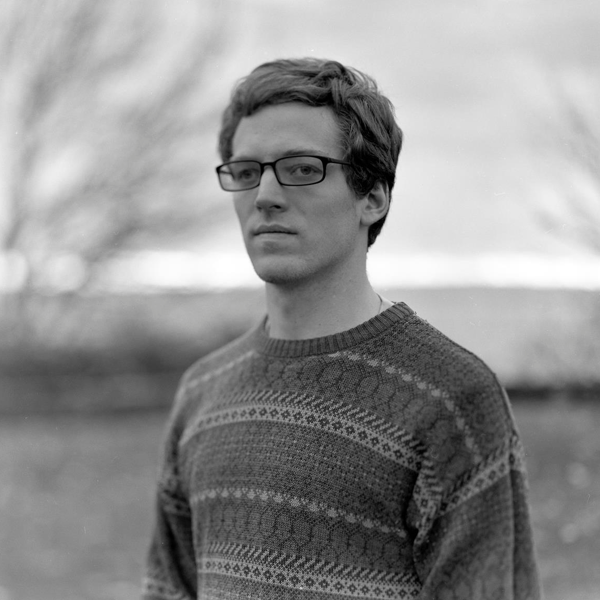
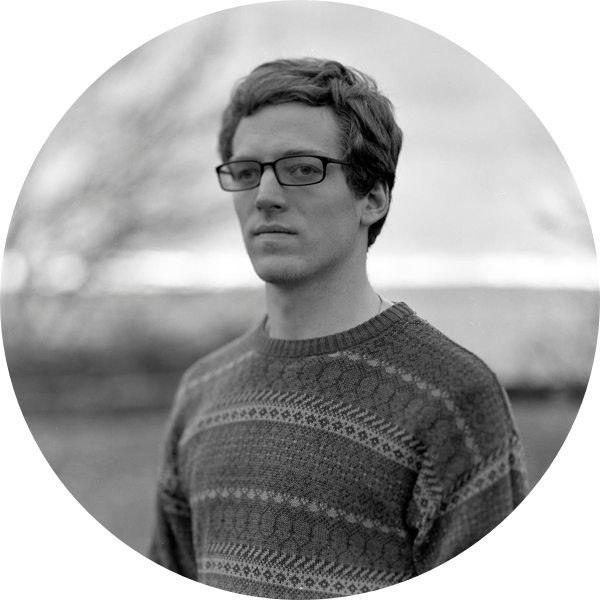
ok

diff --git a/styles.css b/styles.css
@@ -1,1 +1,1 @@
-html,body,div,span,applet,object,iframe,h1,h2,h3,h4,h5,h6,p,blockquote,pre,a,abbr,acronym,address,big,cite,code,del,dfn,em,img,ins,kbd,q,s,samp,small,strike,strong,sub,sup,tt,var,b,u,i,center,dl,dt,dd,ol,ul,li,fieldset,form,label,legend,table,caption,tbody,tfoot,thead,tr,th,td,article,aside,canvas,details,embed,figure,figcaption,footer,header,hgroup,menu,nav,output,ruby,section,summary,time,mark,audio,video{margin:0;padding:0;border:0;font-size:100%;font:inherit;vertical-align:baseline}article,aside,details,figcaption,figure,footer,header,hgroup,menu,nav,section{display:block}body{line-height:1}ol,ul{list-style:none}blockquote,q{quotes:none}blockquote:before,blockquote:after,q:before,q:after{content:'';content:none}table{border-collapse:collapse;border-spacing:0}body{font-family:'Muli'}.name{padding:15px 20px;font-weight:900;margin:0;font-size:1.8em;float:left;color:#000;text-decoration:none;position:absolute;z-index:9999;top:20px;left:20px}@media only screen and (min-width:768px){.name{position:fixed;top:40px;left:60px}}#mnu-btn{background:yellow;padding:20px 20px 17px 20px;cursor:pointer;font-size:1.2em;font-weight:900;position:absolute;top:20px;right:20px;z-index:9999}@media only screen and (min-width:768px){#mnu-btn{position:fixed;top:40px;right:60px}}#mnu-btn:hover{background:pink}.open{overflow:hidden}@media only screen and (min-width:768px){.open .name{color:#fff;transition:color .5s}}.open #mnu-btn{background:pink}.open #main{filter:invert(100%);transition:filter .5s}.c-logo--scrolled.open .name{color:#fff}#work{position:fixed;top:0;left:0;right:0;bottom:0;z-index:999}.list{position:absolute;top:0;left:0;right:0;bottom:0;background:#ffffff;overflow:scroll;-webkit-box-shadow:10px 10px 53px 5px rgba(0,0,0,0.21);-moz-box-shadow:10px 10px 53px 5px rgba(0,0,0,0.21);box-shadow:10px 10px 53px 5px rgba(0,0,0,0.21);padding:0 20px 0 20px}@media only screen and (min-width:768px){.list{left:20%;padding:0 100px 0 110px}}#buff{cursor:pointer}@media only screen and (min-width:768px){#buff{position:absolute;top:0;left:0;right:80%;bottom:0}}.blog-list{margin-top:65px}.blog-list .column{float:left;width:100%}@media only screen and (min-width:768px){.blog-list .column{width:50%}}img{max-width:100%;height:auto}.blog-list .blog-item{text-align:left;float:left;margin-bottom:60px}@media only screen and (min-width:768px){.blog-list .blog-item{width:calc(100% - 100px);margin-bottom:120px}}.blog-list a{float:left}.blog-list a h2::after{content:"\2192";margin-left:20px;padding-top:5px;font-weight:400}.blog-list a:hover h2{color:#dd8c9a}.blog-list .blog-item .project-image{position:relative;float:left;width:100%}.blog-list .blog-item img{position:relative;float:left;width:100%}.blog-list .blog-item .overlay{opacity:0;position:absolute;top:0;left:0;right:0;bottom:0;background:#000;-webkit-transition:opacity .2s;transition:opacity .2s}.blog-list a:hover .overlay{opacity:.375}.page-title{font-size:2.8em;margin-top:170px;padding-bottom:55px;font-weight:900;border-bottom:3px solid #000;width:calc(100% - 100px)}.blog-list .blog-item a{text-decoration:none}.blog-list .blog-item h2{color:#000;font-size:1.8em;margin-top:40px;display:inline-block}.blog-list .blog-item h3{color:#ccc;margin-top:10px}main{background:#fff}h1,h2,h3{font-weight:900}#project p,#project li{font-size:18px;line-height:24px}#project .hero{background-position:top center;background-size:cover;width:100%;height:642px;padding-top:250px}@media only screen and (min-width:768px){#project .hero{display:flex;justify-content:center}}@media only screen and (min-width:768px){#project .hero span{height:1px;width:150px;background:#000;margin:40px}}#project .hero h1{margin:20px 0 0 0;font-size:1.8em}#project .hero h2{font-size:3.6em;max-width:600px;line-height:1.4em}#project .overview{background:#000;margin:-190px auto 40px auto;max-width:1200px;color:#fff;padding:60px}@media only screen and (min-width:768px){#project .overview p{width:60%;float:right;margin:0}}#project .overview h2{font-size:1.8em;color:#a2b9d1}@media only screen and (min-width:768px){#project .overview h2{width:calc(40% - 35px);text-align:right;float:left;margin-top:20px;padding-right:35px}}#project .overview div{display:inline-block;width:100%}#project .overview ul{line-height:24px}#project .overview ul:last-child{border-right:solid 1px transparent}#project .overview ul h3{font-weight:900;font-size:16px}@media only screen and (min-width:768px){#project .overview ul{border-right:solid 1px #fff;margin-right:40px;min-height:190px;float:left;width:25%;margin-top:60px}}#project .center{display:flex;flex-direction:column;flex:1;align-items:center}#project .container{max-width:1200px;margin:60px auto 100px auto;width:100%}#project .container-split{max-width:1600px;margin:60px auto 100px auto;width:100%}#project .container-split .content{float:left;width:20%;margin-top:200px;margin-left:10%}#project .container-split .content p{width:100%}#project .container-split .split-imgs{float:right;width:60%;text-align:right}#project .container-split .split-imgs img{max-width:680px;-webkit-box-shadow:10px 10px 53px 5px rgba(0,0,0,0.21);-moz-box-shadow:10px 10px 53px 5px rgba(0,0,0,0.21);box-shadow:10px 10px 53px 5px rgba(0,0,0,0.21);position:relative}#project .container-split .split-imgs img:last-child{margin-right:200px;z-index:0;margin-top:-1200px}#project .splimgs{padding-bottom:50px}#project .splimgs img{max-width:50%;-webkit-box-shadow:10px 10px 53px 5px rgba(0,0,0,0.21);-moz-box-shadow:10px 10px 53px 5px rgba(0,0,0,0.21);box-shadow:10px 10px 53px 5px rgba(0,0,0,0.21);position:relative;margin-left:50px;z-index:1}#project .splimgs img:last-child{float:left;z-index:0;margin-left:-50px;margin-top:150px}#project .none{margin:0 auto 100px auto}#project .line{border-top:solid 1px #000;padding-top:100px}#project .extra{margin:155px auto 130px auto}#project .content{display:table-cell;justify-self:flex-start}#project .content p{width:60%}#project .content .full{width:100%}#project .content h2{font-size:1.8em;margin-bottom:20px}#project .content h3{margin-bottom:16px}#project .steps{border-top:solid 3px #000;border-bottom:solid 3px #000;margin:0;margin-bottom:5px;padding:60px 0}@media only screen and (min-width:768px){#project .steps{display:flex;justify-content:left}}#project .steps li{margin-right:50px;padding-left:10px;flex-grow:1}#project .steps li h3{font-size:1.8em;line-height:1.2}#project .img-container{max-width:1600px;margin:0 auto;width:90%}#project .img-container img{float:left;width:100%}.space{margin:100px 0 10px 0}.li p{margin-top:15px}.ikka .overview h2{color:#9f8a94 !important}.ikka .hero{background-image:url(/img/ikka/ikka_hero_image.png)}.ikka footer{background:#5a404d}.smartsolve .overview h2{color:#d558af !important}.smartsolve .name{color:#fff}.smartsolve .hero{background-image:url(../img/smartsolve/default.png);background-position:left top!important;color:#fff}@media only screen and (min-width:768px){.smartsolve .hero span{background:#fff !important}}.smartsolve footer{background:#7e1261}.craft footer{background:#a35524}.craft .name{color:#fff}.craft .hero{background-image:url(/img/craft/Craft3_hero_image.png);color:#fff}@media only screen and (min-width:768px){.craft .hero span{background:#fff !important}}.craft .steps li:first-child{width:25%}.craft .overview h2{color:#fd904e !important}.apollo .overview h2{color:#4aa7df !important}.apollo footer{background:#204fb6}.apollo .name{color:#fff}.apollo .hero{background-image:url(/img/apollo/apollo-h.png);color:#fff}@media only screen and (min-width:768px){.apollo .hero span{background:#fff !important}}.apollo .img-ui{width:1600px;margin-top:60px}.apollo .img-ui img{-webkit-box-shadow:10px 10px 53px 5px rgba(0,0,0,0.21);-moz-box-shadow:10px 10px 53px 5px rgba(0,0,0,0.21);box-shadow:10px 10px 53px 5px rgba(0,0,0,0.21);margin:0 5%;z-index:4;position:relative;float:right;width:1100px}.apollo .img-ui img:last-child{float:left;margin-top:-200px;z-index:2;position:relative;width:1100px}.c-logo--scrolled .name{color:#000;transition:color .5s}.glide,.glide2,.glide3,.glide4{position:relative;width:100%;box-sizing:border-box;margin-bottom:40px}.glide *{box-sizing:inherit}.glide__track{overflow:hidden}.glide__slides{position:relative;width:100%;list-style:none;backface-visibility:hidden;transform-style:preserve-3d;touch-action:pan-Y;overflow:hidden;padding:0;white-space:nowrap;display:flex;flex-wrap:nowrap;will-change:transform}.glide__slides--dragging{user-select:none}.glide__slide{width:100%;height:100%;flex-shrink:0;white-space:normal;user-select:none;-webkit-touch-callout:none;-webkit-tap-highlight-color:transparent}.glide__slide a{user-select:none;-webkit-user-drag:none;-moz-user-select:none;-ms-user-select:none}.glide__arrows{-webkit-touch-callout:none;user-select:none}.glide__bullets{-webkit-touch-callout:none;user-select:none}.glide--rtl{direction:rtl}.glide__arrow--left{left:calc(10% - 50px);position:absolute;background:#000;width:50px;height:50px;top:calc(50% - 25px);border:none}button:focus{outline:0}button{cursor:pointer}.glide__arrow--right{right:calc(10% - 50px);position:absolute;background:#000;width:50px;height:50px;top:calc(50% - 25px);border:none}.glide__arrow--right::after,.glide__arrow--left::after{content:" ";position:absolute;width:10px;height:10px;top:50%;left:54%;border-right:2px solid #fff;border-bottom:2px solid #fff;transform:translate(-50%, -50%) rotate(135deg)}.glide__arrow--right{transform:rotate(180deg)}.carousel-control.right::after{left:47%;transform:translate(-50%, -50%) rotate(-45deg)}.glide__bullet{height:10px;width:10px;border-radius:5px;border:solid 1px #fff;background:#fff;padding:0;margin:22px 5px 0 5px}.glide__bullet--active{background:#000;border:solid 1px #000}.glide__track{width:80%;-webkit-box-shadow:10px 10px 53px 5px rgba(0,0,0,0.21);-moz-box-shadow:10px 10px 53px 5px rgba(0,0,0,0.21);box-shadow:10px 10px 53px 5px rgba(0,0,0,0.21);margin:0 auto;padding:0 -10%}.glide__track img{float:left;width:80%}.glide__bullets{text-align:center;display:block}.insights{margin-top:-40px;margin-bottom:35px;background:#F8F9FB;padding:80px 80px 60px 60px;display:inline-block}.insights .contain{max-width:1200px;margin:0 auto 0 auto;width:100%}.insights ul{padding-top:25px;width:100%;display:inline-block}.insights ul li{list-style:none;width:calc(50% - 60px);float:left;margin-left:60px;margin-bottom:25px}.insights ul li h3{font-weight:900;float:left;width:40px}.insights ul li span{float:left;width:calc(100% - 40px)}footer{float:left;width:100%;margin-top:100px;color:#fff;padding-top:60px}footer span{height:1px;width:100%;background:#fff;display:inline-block;margin-top:50px}footer h2{font-size:1.8em;margin-bottom:15px}footer .c{max-width:1200px;margin:60px auto 60px auto;width:100%}footer ul li{width:100%;border-bottom:solid 1px #fff;padding:21px 0 21px 0}footer a{font-size:1.8em;font-weight:900;color:#fff;text-decoration:none;padding:30px 0;display:inline-block}footer a::after{content:"\2192";margin-left:25px;padding-top:5px;font-weight:400}#about{position:absolute;top:0;left:0;bottom:0;right:0;background:#fff;z-index:99;font-size:18px;line-height:24px}#about .center{display:flex;align-items:center;justify-content:center;min-height:80vh}#about .center .wrap{max-width:1100px;display:flex;align-items:center;justify-content:center}#about .center .circle{width:450px;height:450px;float:left;border-radius:225px;overflow:hidden;text-align:center}#about .center .circle img{width:100%}#about .center .words{float:left;max-width:550px;margin-left:50px}#about .center .words h2{font-size:1.8em}#about .center .words h2,#about .center .words p{margin-bottom:25px}#about .contact{width:100%;border-top:solid 3px #000;height:20vh;display:flex;align-items:center}#about .contact a{margin-left:120px;font-weight:900;font-size:1.8em;text-decoration:none;color:#000}#about .contact a::after{content:"\2192";margin-left:25px;padding-top:5px;font-weight:400}#about .contact a:hover{color:#dd8c9a}#about .close{position:absolute;right:60px;bottom:60px;height:44px;width:44px;cursor:pointer;border-radius:44px;border:solid 2px #000;font-family:Hoefler Text,Baskerville Old Face,Garamond,Times New Roman,serif;line-height:49px;text-align:center;font-style:italic;font-size:22px;background:#000;color:#fff}#about .close:hover{background:transparent;color:#000}.open #about{background:#000}#about-btn{position:absolute;right:60px;bottom:60px;height:44px;width:44px;cursor:pointer;border-radius:44px;border:solid 2px #000;font-family:Hoefler Text,Baskerville Old Face,Garamond,Times New Roman,serif;line-height:49px;text-align:center;font-style:italic;font-size:28px}#about-btn:hover{background:#000;color:#fff}#about-btn svg{width:100%;margin:0;height:44px}.etr{margin:35px auto 35px auto!important}#loader{font-family:Hoefler Text,Baskerville Old Face,Garamond,Times New Roman,serif;font-style:italic;font-size:1em;display:flex;align-items:center;justify-content:center;height:100vh}.animate-bottom{position:relative;-webkit-animation-name:animatebottom;-webkit-animation-duration:2s;animation-name:animatebottom;animation-duration:2s}@-webkit-keyframes animatebottom{from{opacity:0}to{opacity:1}}@keyframes animatebottom{from{opacity:0}to{opacity:1}}
+html,body,div,span,applet,object,iframe,h1,h2,h3,h4,h5,h6,p,blockquote,pre,a,abbr,acronym,address,big,cite,code,del,dfn,em,img,ins,kbd,q,s,samp,small,strike,strong,sub,sup,tt,var,b,u,i,center,dl,dt,dd,ol,ul,li,fieldset,form,label,legend,table,caption,tbody,tfoot,thead,tr,th,td,article,aside,canvas,details,embed,figure,figcaption,footer,header,hgroup,menu,nav,output,ruby,section,summary,time,mark,audio,video{margin:0;padding:0;border:0;font-size:100%;font:inherit;vertical-align:baseline}article,aside,details,figcaption,figure,footer,header,hgroup,menu,nav,section{display:block}body{line-height:1}ol,ul{list-style:none}blockquote,q{quotes:none}blockquote:before,blockquote:after,q:before,q:after{content:'';content:none}table{border-collapse:collapse;border-spacing:0}body{font-family:'Muli'}.name{padding:15px 20px;font-weight:900;margin:0;font-size:1.8em;float:left;color:#000;text-decoration:none;position:absolute;z-index:9999;top:20px;left:20px}@media only screen and (min-width:768px){.name{position:fixed;top:40px;left:60px}}#mnu-btn{background:yellow;padding:20px 20px 17px 20px;cursor:pointer;font-size:1.2em;font-weight:900;position:absolute;top:20px;right:20px;z-index:9999}@media only screen and (min-width:768px){#mnu-btn{position:fixed;top:40px;right:60px}}#mnu-btn:hover{background:pink}.open{overflow:hidden}@media only screen and (min-width:768px){.open .name{color:#fff;transition:color .5s}}.open #mnu-btn{background:pink}.open #main{filter:invert(100%);transition:filter .5s}.c-logo--scrolled.open .name{color:#fff}#work{position:fixed;top:0;left:0;right:0;bottom:0;z-index:999}.list{position:absolute;top:0;left:0;right:0;bottom:0;background:#ffffff;overflow:scroll;-webkit-box-shadow:10px 10px 53px 5px rgba(0,0,0,0.21);-moz-box-shadow:10px 10px 53px 5px rgba(0,0,0,0.21);box-shadow:10px 10px 53px 5px rgba(0,0,0,0.21);padding:0 20px 0 20px}@media only screen and (min-width:768px){.list{left:20%;padding:0 100px 0 110px}}#buff{cursor:pointer}@media only screen and (min-width:768px){#buff{position:absolute;top:0;left:0;right:80%;bottom:0}}.blog-list{margin-top:65px}.blog-list .column{float:left;width:100%}@media only screen and (min-width:768px){.blog-list .column{width:50%}}img{max-width:100%;height:auto}.blog-list .blog-item{text-align:left;float:left;margin-bottom:60px}@media only screen and (min-width:768px){.blog-list .blog-item{width:calc(100% - 100px);margin-bottom:120px}}.blog-list a{float:left}.blog-list a h2::after{content:"\2192";margin-left:20px;padding-top:5px;font-weight:400}.blog-list a:hover h2{color:#dd8c9a}.blog-list .blog-item .project-image{position:relative;float:left;width:100%}.blog-list .blog-item img{position:relative;float:left;width:100%}.blog-list .blog-item .overlay{opacity:0;position:absolute;top:0;left:0;right:0;bottom:0;background:#000;-webkit-transition:opacity .2s;transition:opacity .2s}.blog-list a:hover .overlay{opacity:.375}.page-title{font-size:2.8em;margin-top:170px;padding-bottom:55px;font-weight:900;border-bottom:3px solid #000;width:calc(100% - 100px)}.blog-list .blog-item a{text-decoration:none}.blog-list .blog-item h2{color:#000;font-size:1.8em;margin-top:40px;display:inline-block}.blog-list .blog-item h3{color:#ccc;margin-top:10px}main{background:#fff}h1,h2,h3{font-weight:900}#project p,#project li{font-size:18px;line-height:24px}#project .hero{background-position:top center;background-size:cover;height:642px;padding:180px 10%}@media only screen and (min-width:768px){#project .hero{display:flex;justify-content:center;padding:250px 0 0 0;width:100%}}@media only screen and (min-width:768px){#project .hero span{height:1px;width:150px;background:#000;margin:40px}}#project .hero h1{margin:20px 0 0 0;font-size:1.8em}#project .hero h2{font-size:2.6em;max-width:600px;line-height:1.4em;margin-top:50px}@media only screen and (min-width:768px){#project .hero h2{font-size:3.6em;margin:0}}#project .overview{background:#000;margin:-190px auto 40px auto;max-width:1200px;color:#fff;padding:60px}@media only screen and (min-width:768px){#project .overview p{width:60%;float:right;margin:0}}#project .overview h2{font-size:1.8em;color:#a2b9d1;margin-bottom:20px}@media only screen and (min-width:768px){#project .overview h2{width:calc(40% - 35px);margin-bottom:0;text-align:right;float:left;margin-top:20px;padding-right:35px}}#project .overview div{display:inline-block;width:100%}#project .overview ul{line-height:24px;margin-top:20px}@media only screen and (min-width:768px){#project .overview ul{margin-top:0}}#project .overview ul:last-child{border-right:solid 1px transparent}#project .overview ul h3{font-weight:900;font-size:16px}@media only screen and (min-width:768px){#project .overview ul{border-right:solid 1px #fff;margin-right:40px;min-height:190px;float:left;width:25%;margin-top:60px}}#project .center{display:flex;flex-direction:column;flex:1;align-items:center}#project .container{margin:60px 10% 100px 10%}@media only screen and (min-width:768px){#project .container{max-width:1200px;margin:60px auto 100px auto;width:100%}}#project .container-split{max-width:1600px;margin:60px auto 100px auto;width:100%}#project .container-split .content{float:left;width:20%;margin-top:200px;margin-left:10%}#project .container-split .content p{width:100%}#project .container-split .split-imgs{float:right;width:60%;text-align:right}#project .container-split .split-imgs img{max-width:680px;-webkit-box-shadow:10px 10px 53px 5px rgba(0,0,0,0.21);-moz-box-shadow:10px 10px 53px 5px rgba(0,0,0,0.21);box-shadow:10px 10px 53px 5px rgba(0,0,0,0.21);position:relative}#project .container-split .split-imgs img:last-child{margin-right:200px;z-index:0;margin-top:-1200px}#project .splimgs{padding-bottom:50px}#project .splimgs img{max-width:50%;-webkit-box-shadow:10px 10px 53px 5px rgba(0,0,0,0.21);-moz-box-shadow:10px 10px 53px 5px rgba(0,0,0,0.21);box-shadow:10px 10px 53px 5px rgba(0,0,0,0.21);position:relative;margin-left:50px;z-index:1}#project .splimgs img:last-child{float:left;z-index:0;margin-left:-50px;margin-top:150px}#project .none{margin:0 10% 100px 10%}@media only screen and (min-width:768px){#project .none{margin:0 auto 100px auto}}#project .line{border-top:solid 1px #000;padding-top:100px}#project .extra{margin:155px 10% 130px 10%}@media only screen and (min-width:768px){#project .extra{margin:155px auto 130px auto}}#project .content{display:table-cell;justify-self:flex-start}@media only screen and (min-width:768px){#project .content p{width:60%}}#project .content .full{width:100%}#project .content h2{font-size:1.8em;margin-bottom:20px}#project .content h3{margin-bottom:16px}#project .steps{border-top:solid 3px #000;border-bottom:solid 3px #000;margin:0;margin-bottom:5px;padding:60px 0}@media only screen and (min-width:768px){#project .steps{display:flex;justify-content:left}}#project .steps li{margin:20px 10%;flex-grow:1;margin-bottom:20px}@media only screen and (min-width:768px){#project .steps li{margin:0 50px 0 0;padding-left:10px}}#project .steps li h3{font-size:1.8em;line-height:1.2}#project .img-container{max-width:1600px;margin:0 auto;width:90%}#project .img-container img{float:left;width:100%}.space{margin:100px 0 10px 0}.li p{margin-top:15px}.ikka .overview h2{color:#9f8a94 !important}.ikka .hero{background-image:url(/img/ikka/ikka_hero_image.png)}.ikka footer{background:#5a404d}.smartsolve .overview h2{color:#d558af !important}.smartsolve .name{color:#fff}.smartsolve .hero{background-image:url(../img/smartsolve/default.png);background-position:left top!important;color:#fff}@media only screen and (min-width:768px){.smartsolve .hero span{background:#fff !important}}.smartsolve footer{background:#7e1261}.craft footer{background:#a35524}.craft .name{color:#fff}.craft .hero{background-image:url(/img/craft/Craft3_hero_image.png);color:#fff}@media only screen and (min-width:768px){.craft .hero span{background:#fff !important}}.craft .steps li:first-child{width:25%}.craft .overview h2{color:#fd904e !important}.apollo .overview h2{color:#4aa7df !important}.apollo footer{background:#204fb6}.apollo .name{color:#fff}.apollo .hero{background-image:url(/img/apollo/apollo-h.png);color:#fff}@media only screen and (min-width:768px){.apollo .hero span{background:#fff !important}}.apollo .img-ui{margin-top:60px}@media only screen and (min-width:768px){.apollo .img-ui{width:1600px}}.apollo .img-ui img{-webkit-box-shadow:10px 10px 53px 5px rgba(0,0,0,0.21);-moz-box-shadow:10px 10px 53px 5px rgba(0,0,0,0.21);box-shadow:10px 10px 53px 5px rgba(0,0,0,0.21);margin:0 10%;z-index:4;position:relative;max-width:80%}@media only screen and (min-width:768px){.apollo .img-ui img{width:1100px;margin:0 5%}}@media only screen and (min-width:768px){.apollo .img-ui img:last-child{float:left;margin-top:-200px;z-index:2;position:relative;width:1100px}}.c-logo--scrolled .name{color:#000;transition:color .5s}.glide,.glide2,.glide3,.glide4{position:relative;width:100%;box-sizing:border-box;margin-bottom:40px}.glide *{box-sizing:inherit}.glide__track{overflow:hidden}.glide__slides{position:relative;width:100%;list-style:none;backface-visibility:hidden;transform-style:preserve-3d;touch-action:pan-Y;overflow:hidden;padding:0;white-space:nowrap;display:flex;flex-wrap:nowrap;will-change:transform}.glide__slides--dragging{user-select:none}.glide__slide{width:100%;height:100%;flex-shrink:0;white-space:normal;user-select:none;-webkit-touch-callout:none;-webkit-tap-highlight-color:transparent}.glide__slide a{user-select:none;-webkit-user-drag:none;-moz-user-select:none;-ms-user-select:none}.glide__arrows{-webkit-touch-callout:none;user-select:none;display:none}@media only screen and (min-width:768px){.glide__arrows{display:block}}.glide__bullets{-webkit-touch-callout:none;user-select:none}.glide--rtl{direction:rtl}.glide__arrow--left{left:calc(10% - 50px);position:absolute;background:#000;width:50px;height:50px;top:calc(50% - 25px);border:none}button:focus{outline:0}button{cursor:pointer}.glide__arrow--right{right:calc(10% - 50px);position:absolute;background:#000;width:50px;height:50px;top:calc(50% - 25px);border:none}.glide__arrow--right::after,.glide__arrow--left::after{content:" ";position:absolute;width:10px;height:10px;top:50%;left:54%;border-right:2px solid #fff;border-bottom:2px solid #fff;transform:translate(-50%, -50%) rotate(135deg)}.glide__arrow--right{transform:rotate(180deg)}.carousel-control.right::after{left:47%;transform:translate(-50%, -50%) rotate(-45deg)}.glide__bullet{height:10px;width:10px;border-radius:5px;border:solid 1px #fff;background:#fff;padding:0;margin:22px 5px 0 5px}.glide__bullet--active{background:#000;border:solid 1px #000}.glide__track{width:80%;-webkit-box-shadow:10px 10px 53px 5px rgba(0,0,0,0.21);-moz-box-shadow:10px 10px 53px 5px rgba(0,0,0,0.21);box-shadow:10px 10px 53px 5px rgba(0,0,0,0.21);margin:0 auto;padding:0 -10%}.glide__track img{float:left;width:80%}.glide__bullets{text-align:center;display:block}.insights{margin-top:-40px;margin-bottom:35px;background:#F8F9FB;padding:80px 80px 60px 60px;display:inline-block}.insights .contain{max-width:1200px;margin:0 auto 0 auto;width:100%}.insights ul{padding-top:25px;width:100%;display:inline-block}.insights ul li{list-style:none;display:inline-block;margin-bottom:25px}@media only screen and (min-width:768px){.insights ul li{width:calc(50% - 60px);float:left;margin-left:60px}}.insights ul li h3{font-weight:900;float:left;width:40px}.insights ul li span{float:left;width:calc(100% - 40px)}footer{padding:60px 10%;color:#fff}@media only screen and (min-width:768px){footer{float:left;width:100%;margin-top:100px;padding:60px 0 0 0}}@media only screen and (min-width:768px){footer span{height:1px;width:100%;background:#fff;display:inline-block;margin-top:50px}}footer h2{font-size:1.8em;margin-bottom:15px}footer .c{max-width:1200px;margin:60px auto 60px auto;width:100%}footer ul li{width:100%;border-bottom:solid 1px #fff;padding:21px 0 21px 0}footer a{font-size:1.8em;font-weight:900;color:#fff;text-decoration:none;padding:30px 0;display:inline-block}footer a::after{content:"\2192";margin-left:25px;padding-top:5px;font-weight:400}#about{position:absolute;top:0;left:0;bottom:0;right:0;background:#fff;z-index:99;font-size:18px;line-height:24px}@media only screen and (min-width:768px){#about .center{display:flex;align-items:center;justify-content:center;min-height:80vh}}@media only screen and (min-width:768px){#about .center .wrap{max-width:1100px;display:flex;align-items:center;justify-content:center}}#about .center .circle{max-width:80%;margin:150px 10% 50px 10%;overflow:hidden;text-align:center}@media only screen and (min-width:768px){#about .center .circle{width:450px;height:450px;float:left;margin:0}}#about .center .circle img{width:100%}#about .center .words{float:left;max-width:550px;margin:0 10%}@media only screen and (min-width:768px){#about .center .words{margin:0 0 0 50px}}#about .center .words h2{font-size:1.8em}#about .center .words h2,#about .center .words p{margin-bottom:25px}#about .contact{width:100%;border-top:solid 3px #000;display:inline-block;padding-bottom:30px}@media only screen and (min-width:768px){#about .contact{height:20vh;display:flex;align-items:center;padding:0}}#about .contact a{margin:30px 0 10px 10%;font-weight:900;font-size:1.8em;display:inline-block;text-decoration:none;color:#000}@media only screen and (min-width:768px){#about .contact a{margin:0 0 0 120px}}#about .contact a::after{content:"\2192";margin-left:25px;padding-top:5px;font-weight:400}#about .contact a:hover{color:#dd8c9a}#about .close{position:absolute;right:140px;top:25px;height:44px;width:44px;cursor:pointer;border-radius:44px;border:solid 2px #000;font-family:Hoefler Text,Baskerville Old Face,Garamond,Times New Roman,serif;line-height:49px;text-align:center;font-style:italic;font-size:22px;background:#000;color:#fff}@media only screen and (min-width:768px){#about .close{position:absolute;right:60px;bottom:36px;top:auto}}#about .close:hover{background:transparent;color:#000}.open #about{background:#000}#about-btn{position:absolute;right:140px;top:25px;height:44px;width:44px;cursor:pointer;border-radius:44px;border:solid 2px #000;font-family:Hoefler Text,Baskerville Old Face,Garamond,Times New Roman,serif;line-height:49px;text-align:center;font-style:italic;font-size:28px}#about-btn:hover{background:#000;color:#fff}#about-btn svg{width:100%;margin:0;height:44px}@media only screen and (min-width:768px){#about-btn{right:60px;top:auto;bottom:36px}}.etr{margin:35px auto 35px auto!important}#loader{font-family:Hoefler Text,Baskerville Old Face,Garamond,Times New Roman,serif;font-style:italic;font-size:1em;display:flex;align-items:center;justify-content:center;height:100vh}.animate-bottom{position:relative;-webkit-animation-name:animatebottom;-webkit-animation-duration:2s;animation-name:animatebottom;animation-duration:2s}@-webkit-keyframes animatebottom{from{opacity:0}to{opacity:1}}@keyframes animatebottom{from{opacity:0}to{opacity:1}}

diff --git a/style.less b/style.less
@@ -251,12 +251,14 @@ h1,h2,h3 {
        
         background-position: top center;
         background-size:cover;
-        width:100%;
+        
         height:642px;
-        padding-top:250px;
+        padding:180px 10%;
         @media only screen and (min-width : 768px) { 
             display: flex;
             justify-content: center;
+                   padding:250px 0 0 0;
+            width:100%;
         }
         span{
             @media only screen and (min-width : 768px) { 
@@ -271,9 +273,14 @@ h1,h2,h3 {
                 font-size:1.8em;
         }
         h2{
-             font-size:3.6em;
+             font-size:2.6em;
             max-width:600px;
             line-height:1.4em;
+            margin-top:50px;
+            @media only screen and (min-width : 768px) { 
+                font-size:3.6em;
+                margin:0;
+            }
         }
     }
     .overview{
@@ -293,9 +300,10 @@ h1,h2,h3 {
         h2{
             font-size:1.8em;
             color:#a2b9d1;
-            
+            margin-bottom:20px;
             @media only screen and (min-width : 768px) { 
             width:calc(40% - 35px);
+                margin-bottom:0;
             text-align:right;
             float:left;
                 margin-top:20px;
@@ -309,7 +317,10 @@ h1,h2,h3 {
         }
         ul{
             line-height:24px;
-             
+             margin-top:20px;
+                  @media only screen and (min-width : 768px) { 
+               margin-top:0;        
+            }
               &:last-child{
                     border-right:solid 1px transparent;
                 }
@@ -342,9 +353,12 @@ h1,h2,h3 {
     align-items: center;
     }
     .container{
+          margin:60px 10% 100px 10%;
+         @media only screen and (min-width : 768px) { 
         max-width:1200px;
         margin:60px auto 100px auto;
         width:100%;
+        }
     }
 .container-split{
     max-width:1600px;
@@ -395,21 +409,30 @@ h1,h2,h3 {
             }
     }
     .none{
+        margin:0 10% 100px 10%;
+          @media only screen and (min-width : 768px) { 
         margin:0 auto 100px auto;
+        }
     }
     .line{
         border-top:solid 1px #000;
         padding-top:100px;
     }
     .extra{
+           margin:155px 10% 130px 10%;
+         @media only screen and (min-width : 768px) { 
         margin:155px auto 130px auto;
+             
+        }
     }
     .content{
         display:table-cell;
         justify-self: flex-start;
             
         p{
+                  @media only screen and (min-width : 768px) { 
             width:60%;
+            }
         }
         .full{
     width:100%;
@@ -434,9 +457,14 @@ h1,h2,h3 {
             
         }
         li{
-            margin-right:50px;
-            padding-left:10px;
+            
+            margin:20px 10%;
             flex-grow: 1; 
+            margin-bottom:20px;
+             @media only screen and (min-width : 768px) { 
+                 margin:0 50px 0 0;
+            padding-left:10px;
+            }
             h3{
                 font-size:1.8em;
                 line-height:1.2;
@@ -568,23 +596,33 @@ h1,h2,h3 {
         }
     }
     .img-ui{
-        width:1600px;
+        
+
         margin-top:60px;
+        @media only screen and (min-width : 768px) { 
+            width:1600px;
+        }
         img{
             -webkit-box-shadow: 10px 10px 53px 5px rgba(0,0,0,0.21);
             -moz-box-shadow: 10px 10px 53px 5px rgba(0,0,0,0.21);
             box-shadow: 10px 10px 53px 5px rgba(0,0,0,0.21);
-            margin:0 5%;
+            margin:0 10%;
             z-index:4;
             position:relative;
-            float:right;
+           max-width:80%;
+            
+                 @media only screen and (min-width : 768px) { 
             width:1100px;
+                      margin:0 5%;
+            }
             &:last-child{
+                 @media only screen and (min-width : 768px) { 
                 float:left;
                 margin-top:-200px;
                 z-index:2;
                 position:relative;
                 width:1100px;
+                }
             }
         }
     }
@@ -599,7 +637,14 @@ h1,h2,h3 {
      transition: color .5s;
 }
 
-.glide,.glide2,.glide3,.glide4{position:relative;width:100%;box-sizing:border-box; margin-bottom:40px;}.glide *{box-sizing:inherit}.glide__track{overflow:hidden}.glide__slides{position:relative;width:100%;list-style:none;backface-visibility:hidden;transform-style:preserve-3d;touch-action:pan-Y;overflow:hidden;padding:0;white-space:nowrap;display:flex;flex-wrap:nowrap;will-change:transform}.glide__slides--dragging{user-select:none}.glide__slide{width:100%;height:100%;flex-shrink:0;white-space:normal;user-select:none;-webkit-touch-callout:none;-webkit-tap-highlight-color:transparent}.glide__slide a{user-select:none;-webkit-user-drag:none;-moz-user-select:none;-ms-user-select:none}.glide__arrows{-webkit-touch-callout:none;user-select:none}.glide__bullets{-webkit-touch-callout:none;user-select:none}.glide--rtl{direction:rtl}
+.glide,.glide2,.glide3,.glide4{position:relative;width:100%;box-sizing:border-box; margin-bottom:40px;}.glide *{box-sizing:inherit}.glide__track{overflow:hidden}.glide__slides{position:relative;width:100%;list-style:none;backface-visibility:hidden;transform-style:preserve-3d;touch-action:pan-Y;overflow:hidden;padding:0;white-space:nowrap;display:flex;flex-wrap:nowrap;will-change:transform}.glide__slides--dragging{user-select:none}.glide__slide{width:100%;height:100%;flex-shrink:0;white-space:normal;user-select:none;-webkit-touch-callout:none;-webkit-tap-highlight-color:transparent}.glide__slide a{user-select:none;-webkit-user-drag:none;-moz-user-select:none;-ms-user-select:none}.glide__arrows{
+    -webkit-touch-callout:none;user-select:none;
+display:none;
+ @media only screen and (min-width : 768px) { 
+    display:block; 
+    }
+
+}.glide__bullets{-webkit-touch-callout:none;user-select:none}.glide--rtl{direction:rtl}
 
 .glide__arrow--left{
     left:calc(10% - 50px);
@@ -690,11 +735,15 @@ button{
         width:100%;
         display:inline-block;
         li{
-            list-style: none;
+              list-style: none;
+            display:inline-block;
+              margin-bottom:25px;
+              @media only screen and (min-width : 768px) {
             width:calc(50% - 60px);
             float:left;
             margin-left:60px;
-            margin-bottom:25px;
+          
+            }
                 h3{
                     font-weight:900;
                     float:left;
@@ -711,15 +760,22 @@ button{
 
 footer{
     
-    float:left;
+   padding:60px 10%;
+     color:#fff;
+    @media only screen and (min-width : 768px) { 
+      float:left;
     width:100%;
     margin-top:100px;
-    color:#fff;
-    padding-top:60px;
-    span{height:1px;
+   
+    padding:60px 0 0 0;   
+    }
+    span{
+        @media only screen and (min-width : 768px) { 
+        height:1px;
     width:100%;
     background:#fff;
-    display:inline-block;margin-top:50px;}
+    display:inline-block;margin-top:50px;
+        }}
     h2{
         font-size: 1.8em;
         margin-bottom: 15px;
@@ -765,21 +821,34 @@ footer{
         font-size: 18px;
     line-height: 24px;
    .center{
+       
+         @media only screen and (min-width : 768px) {
             display: flex;
             align-items: center;
             justify-content: center;
        min-height:80vh;
+       }
        .wrap{
+           
+            @media only screen and (min-width : 768px) {
             max-width:1100px;
            display: flex;
   align-items: center;
   justify-content: center;
+           }
        }
        .circle{
+           max-width:80%;
+           margin:150px 10% 50px 10%;
+           
+          
+             @media only screen and (min-width : 768px) {
           width:450px;
            height:450px;
            float:left;
-           border-radius:225px;
+                 margin:0;
+       }
+        
            overflow:hidden;
            text-align:center;
            img{
@@ -789,7 +858,10 @@ footer{
        .words{
            float:left;
            max-width:550px;
-           margin-left:50px;
+           margin:0 10%;
+                   @media only screen and (min-width : 768px) {
+           margin:0 0 0 50px;
+           }
            h2{
                font-size:1.8em;
            }
@@ -802,14 +874,24 @@ footer{
     .contact{
            width:100%;
            border-top:solid 3px #000;
-           height:20vh;
+         display:inline-block;
+        padding-bottom:30px;
+         @media only screen and (min-width : 768px) {
+               height:20vh;
          display: flex;
             align-items: center;
-        a {margin-left:120px;
+             padding:0;
+        }
+        a {
+            margin:30px 0 10px 10%;
              font-weight:900;
         font-size:1.8em;
+            display:inline-block;
             text-decoration:none;
             color:#000;
+                 @media only screen and (min-width : 768px) {
+                     margin: 0 0 0 120px;
+            }
              &::after{
             content: "\2192";
             margin-left:25px;
@@ -822,9 +904,15 @@ footer{
         }
        }
     .close{
+        position:absolute;
+           right:140px;
+    top:25px;
+         @media only screen and (min-width : 768px) {
        position:absolute;
     right:60px;
-    bottom:60px;
+    bottom:36px;
+              top:auto;
+        }
     height:44px;
     width:44px;
     cursor:pointer;
@@ -848,8 +936,10 @@ footer{
 }
 #about-btn{
     position:absolute;
-    right:60px;
-    bottom:60px;
+    
+     right:140px;
+    top:25px;
+    
     height:44px;
     width:44px;
     cursor:pointer;
@@ -867,6 +957,11 @@ footer{
     svg{
         width:100%;margin:0;
         height:44px;
+    }
+     @media only screen and (min-width : 768px) {
+    right:60px;
+         top:auto;
+    bottom:36px;
     }
 }
 .etr{

diff --git a/index.html b/index.html
@@ -51,8 +51,8 @@
            
     </div>
          <div class="contact">
-           <a href="">Linkedin</a>
-           <a href="">Unsplash</a>
+           <a href="https://www.linkedin.com/in/galesteve/" target="_blank">Linkedin</a>
+           <a href="https://unsplash.com/@stvgale" target="_blank">Unsplash</a>
             </div>
     </div>
         <div id="work" style="display:none;">
